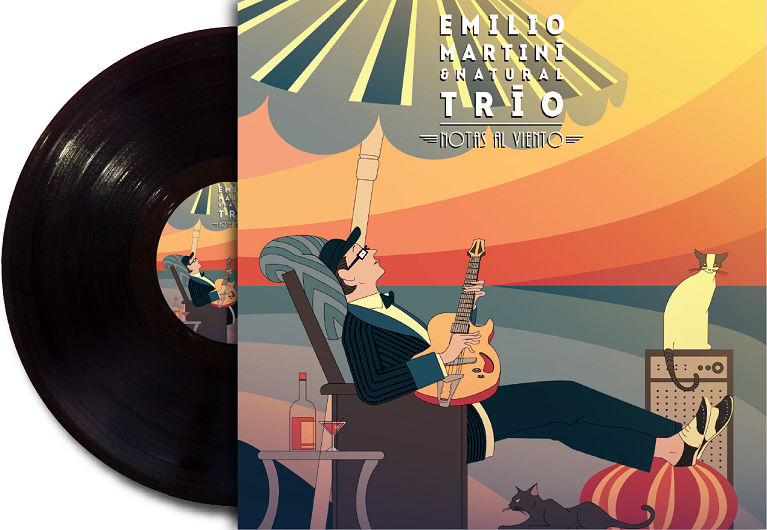
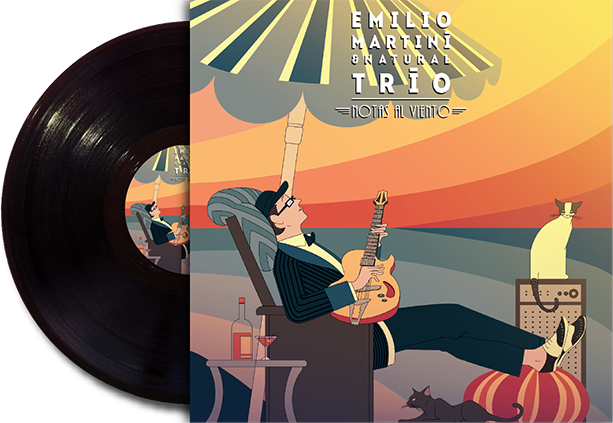
Changing discography disc and bluring.

diff --git a/public/stylesheets/style.css b/public/stylesheets/style.css
@@ -322,8 +322,9 @@ h6 {
     border: 1px solid #015194;
     color: white;
     padding: 5px;
-    font-size: 1.7rem;
+    font-size: 1.2rem;
     font-weight: 700;
+    text-transform: uppercase;
 }
 
 .contact-form textarea {
@@ -451,4 +452,8 @@ h6 {
     to {
         left: 100%;
     }
+}
+
+.bluring{
+    filter: blur(5px);
 }
